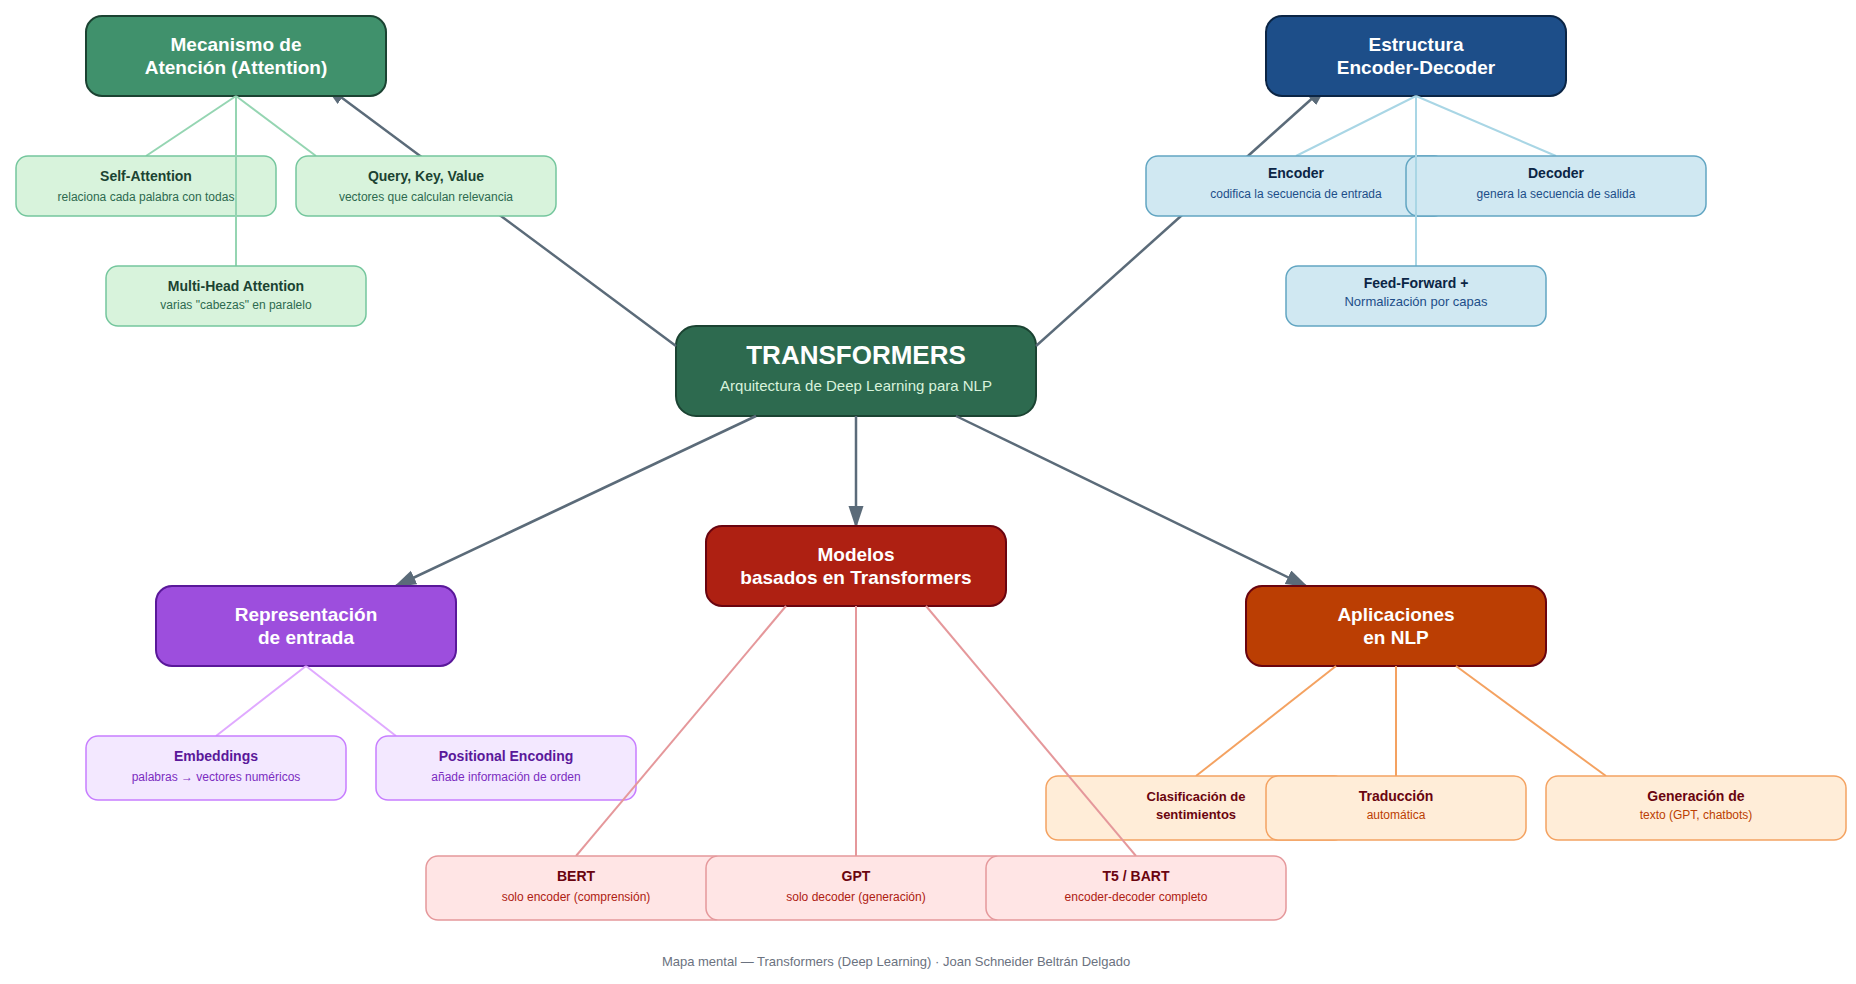
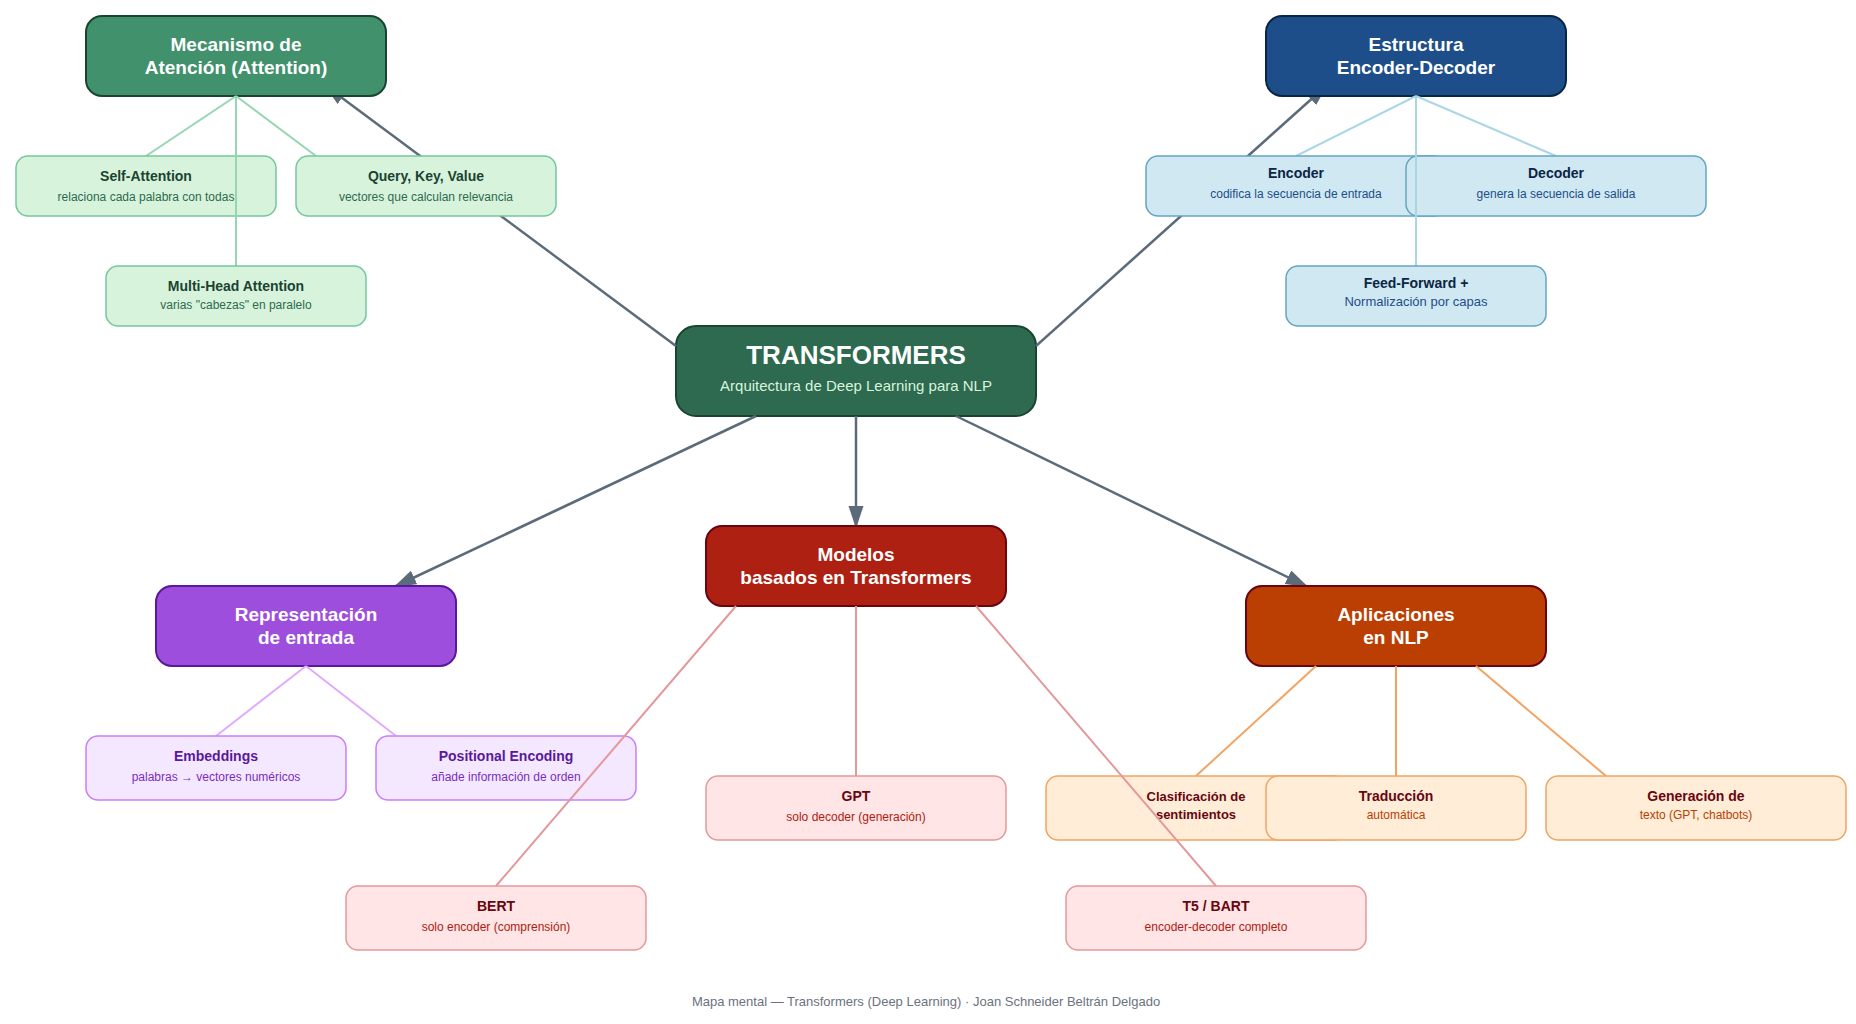
Reorganizar líneas del mapa mental para que ninguna cruce por encima de otra caja

diff --git a/.generator/generar.js b/.generator/generar.js
@@ -1,0 +1,227 @@
+const fs = require("fs");
+const {
+  Document, Packer, Paragraph, TextRun, AlignmentType,
+  Header, PageNumber, ImageRun, ExternalHyperlink, Table, TableRow, TableCell,
+  WidthType,
+} = require("docx");
+
+const IMG_DIR = "/home/alternova/Documentos/entrega-transformers-nlp";
+const REPO_URL = "https://github.com/JSBeltran93/transformers-nlp-sentimientos";
+
+function sizeOf(path) {
+  const buf = fs.readFileSync(path);
+  const width = buf.readUInt32BE(16);
+  const height = buf.readUInt32BE(20);
+  return { width, height, buf };
+}
+
+function figureParagraph(path, maxWidth, caption) {
+  const { width, height, buf } = sizeOf(path);
+  const scale = maxWidth / width;
+  const w = Math.round(width * scale);
+  const h = Math.round(height * scale);
+  return [
+    new Paragraph({
+      alignment: AlignmentType.CENTER,
+      spacing: { before: 200, after: 100 },
+      children: [new ImageRun({ data: buf, transformation: { width: w, height: h }, type: "png" })],
+    }),
+    new Paragraph({
+      alignment: AlignmentType.CENTER,
+      spacing: { after: 300 },
+      children: [new TextRun({ text: caption, italics: true, size: 20 })],
+    }),
+  ];
+}
+
+const FONT = "Times New Roman";
+const SIZE = 24;
+
+function p(text, opts = {}) {
+  return new Paragraph({
+    spacing: { line: 480, after: opts.after ?? 0 },
+    alignment: opts.align ?? AlignmentType.JUSTIFIED,
+    indent: opts.indent ? { firstLine: 720 } : undefined,
+    children: Array.isArray(text) ? text : [new TextRun({ text, font: FONT, size: SIZE, bold: opts.bold, italics: opts.italics })],
+  });
+}
+
+function heading(text) {
+  return new Paragraph({
+    spacing: { before: 300, after: 200, line: 480 },
+    children: [new TextRun({ text, font: FONT, size: SIZE, bold: true })],
+  });
+}
+
+function code(lines) {
+  return new Paragraph({
+    spacing: { after: 200 },
+    shading: { fill: "F2F2F2" },
+    children: lines.split("\n").flatMap((line, i) => [
+      ...(i > 0 ? [new TextRun({ text: "", break: 1 })] : []),
+      new TextRun({ text: line, font: "Courier New", size: 18 }),
+    ]),
+  });
+}
+
+const children = [];
+
+// Portada
+children.push(
+  new Paragraph({ spacing: { before: 2000 }, children: [] }),
+  new Paragraph({
+    alignment: AlignmentType.CENTER,
+    spacing: { line: 480, after: 100 },
+    children: [new TextRun({ text: "Informe de Trabajo: Transformers aplicados al Procesamiento de Lenguaje Natural", font: FONT, size: 28, bold: true })],
+  }),
+  new Paragraph({ spacing: { before: 1600 }, children: [] }),
+  new Paragraph({ alignment: AlignmentType.CENTER, spacing: { line: 480 }, children: [new TextRun({ text: "Joan Schneider Beltrán Delgado", font: FONT, size: SIZE })] }),
+  new Paragraph({ alignment: AlignmentType.CENTER, spacing: { line: 480 }, children: [new TextRun({ text: "CADI, Universidad de Cundinamarca, Especialización en Inteligencia Artificial", font: FONT, size: SIZE })] }),
+  new Paragraph({ alignment: AlignmentType.CENTER, spacing: { line: 480 }, children: [new TextRun({ text: "Inteligencia Artificial - Conceptos", font: FONT, size: SIZE })] }),
+  new Paragraph({ alignment: AlignmentType.CENTER, spacing: { line: 480 }, children: [new TextRun({ text: "15 de noviembre de 2026", font: FONT, size: SIZE })] }),
+  new Paragraph({ children: [], pageBreakBefore: true }),
+);
+
+children.push(
+  new Paragraph({
+    alignment: AlignmentType.CENTER,
+    spacing: { after: 300, line: 480 },
+    children: [new TextRun({ text: "Informe de Trabajo: Transformers aplicados al Procesamiento de Lenguaje Natural", font: FONT, size: SIZE, bold: true })],
+  }),
+  heading("Introducción"),
+  p("Este informe recoge una práctica con modelos Transformers aplicados al procesamiento de lenguaje natural (NLP), usando un modelo preentrenado de la librería Hugging Face transformers para clasificar el sentimiento de un grupo de oraciones. Se explican primero los fundamentos de la arquitectura Transformer y su mecanismo de atención, y luego se describe la práctica, los resultados obtenidos y lo que se puede concluir de ellos.", { indent: true, after: 200 }),
+);
+
+children.push(heading("Conceptos clave"));
+
+children.push(
+  new Paragraph({ spacing: { line: 480, after: 150 }, children: [new TextRun({ text: "Qué es un Transformer", font: FONT, size: SIZE, bold: true, italics: true })] }),
+  p('Un Transformer es una arquitectura de red neuronal pensada originalmente para traducción automática, presentada por Vaswani et al. (2017) en el artículo "Attention is all you need". A diferencia de las redes recurrentes (RNN/LSTM), que leen una secuencia palabra por palabra, un Transformer procesa toda la secuencia de una vez, apoyándose por completo en el mecanismo de atención para relacionar palabras sin importar qué tan lejos estén unas de otras en el texto.', { indent: true, after: 200 }),
+
+  new Paragraph({ spacing: { line: 480, after: 150 }, children: [new TextRun({ text: "El mecanismo de atención", font: FONT, size: SIZE, bold: true, italics: true })] }),
+  p('La pieza central de un Transformer es el mecanismo de self-attention: para cada palabra de una oración, el modelo calcula qué tan relevantes son todas las demás palabras para entenderla en ese contexto puntual. Esto se logra con tres vectores derivados de cada palabra (query, key y value); comparando la query de una palabra contra las keys de las demás, el modelo obtiene un peso que indica cuánto debe fijarse en cada una al construir su representación final. El Multi-Head Attention repite este cálculo varias veces en paralelo, con pesos distintos cada vez, lo que le permite al modelo captar a la vez varios tipos de relación, por ejemplo una sintáctica y otra semántica.', { indent: true, after: 200 }),
+
+  new Paragraph({ spacing: { line: 480, after: 150 }, children: [new TextRun({ text: "Estructura: encoder y decoder", font: FONT, size: SIZE, bold: true, italics: true })] }),
+  p("La arquitectura original del Transformer se divide en dos bloques: el encoder, que toma la secuencia de entrada y la convierte en una representación vectorial cargada de contexto, y el decoder, que usa esa representación para ir generando la secuencia de salida palabra por palabra. Cada bloque apila varias capas idénticas, y cada capa combina una etapa de atención con una red feed-forward, además de normalización y conexiones residuales que ayudan a que el entrenamiento no se desestabilice en redes tan profundas. No todos los modelos usan ambas mitades: BERT se queda solo con el encoder, pensado para entender texto; GPT usa solo el decoder, pensado para generarlo; y modelos como T5 o BART conservan la arquitectura completa.", { indent: true, after: 200 }),
+
+  new Paragraph({ spacing: { line: 480, after: 150 }, children: [new TextRun({ text: "Aplicaciones en NLP", font: FONT, size: SIZE, bold: true, italics: true })] }),
+  p("Hoy en día los Transformers sostienen casi todas las aplicaciones de NLP que se usan a diario: clasificación de texto y análisis de sentimientos, traducción automática, resumen de documentos, respuesta a preguntas, y generación de texto. Los modelos de lenguaje conversacional como ChatGPT son, en el fondo, Transformers tipo decoder llevados a una escala enorme.", { indent: true, after: 200 }),
+);
+
+children.push(heading("Descripción de la práctica"));
+
+children.push(
+  new Paragraph({ spacing: { line: 480, after: 150 }, children: [new TextRun({ text: "Modelo utilizado", font: FONT, size: SIZE, bold: true, italics: true })] }),
+  p("Para esta práctica se usó distilbert-base-uncased-finetuned-sst-2-english, una versión reducida de BERT (DistilBERT) ya afinada específicamente para clasificar sentimientos de forma binaria (positivo/negativo) sobre el dataset SST-2. Se accedió al modelo a través del pipeline de alto nivel sentiment-analysis de la librería transformers de Hugging Face, que se encarga internamente de tokenizar el texto, pasarlo por el modelo y convertir la salida en una etiqueta junto con su probabilidad.", { indent: true, after: 100 }),
+  code(`from transformers import pipeline
+
+clasificador = pipeline("sentiment-analysis",
+                         model="distilbert-base-uncased-finetuned-sst-2-english")
+
+oraciones = [
+    "I love how this model understands context so well.",
+    "This movie was a complete waste of my time.",
+    "The weather today is okay, nothing special.",
+    "Transformers have completely changed the field of NLP.",
+    "I am really disappointed with the customer service.",
+]
+
+resultados = clasificador(oraciones)
+for oracion, resultado in zip(oraciones, resultados):
+    print(f"{oracion!r} -> {resultado['label']} ({resultado['score']:.4f})")`),
+
+  new Paragraph({ spacing: { line: 480, after: 150 }, children: [new TextRun({ text: "Procedimiento", font: FONT, size: SIZE, bold: true, italics: true })] }),
+  p("Se armó un grupo breve de 5 oraciones en inglés (el idioma en el que el modelo fue afinado), con distintos matices de sentimiento: dos claramente positivas, dos claramente negativas, y una neutra a propósito, para ver cómo se comporta el modelo frente a un caso límite. El pipeline tokeniza cada oración, la pasa por las capas del Transformer, incluido el mecanismo de atención descrito antes, y produce un vector de probabilidades que termina convertido en la etiqueta final (POSITIVE o NEGATIVE) junto con su nivel de confianza.", { indent: true, after: 200 }),
+);
+
+children.push(heading("Resultados obtenidos"));
+
+children.push(p("El modelo clasificó las 5 oraciones de la siguiente manera:", { indent: true, after: 100 }));
+
+const rows = [
+  ["Oración", "Etiqueta", "Confianza"],
+  ["I love how this model understands context so well.", "POSITIVE", "0.9998"],
+  ["This movie was a complete waste of my time.", "NEGATIVE", "0.9998"],
+  ["The weather today is okay, nothing special.", "NEGATIVE", "0.9952"],
+  ["Transformers have completely changed the field of NLP.", "POSITIVE", "0.9952"],
+  ["I am really disappointed with the customer service.", "NEGATIVE", "0.9998"],
+];
+const table = new Table({
+  width: { size: 100, type: WidthType.PERCENTAGE },
+  rows: rows.map((row, idx) => new TableRow({
+    children: row.map((cell, colIdx) => new TableCell({
+      width: { size: colIdx === 0 ? 60 : 20, type: WidthType.PERCENTAGE },
+      children: [new Paragraph({ alignment: colIdx === 0 ? AlignmentType.LEFT : AlignmentType.CENTER, children: [new TextRun({ text: cell, font: FONT, size: 20, bold: idx === 0 })] })],
+    })),
+  })),
+});
+children.push(table);
+children.push(new Paragraph({ spacing: { after: 200 }, children: [] }));
+
+children.push(
+  p('Las cuatro oraciones con una carga emocional clara, dos positivas y dos negativas, quedaron bien clasificadas y con una confianza casi perfecta (99.98% y 99.52%). La oración neutra, puesta a propósito como caso límite ("The weather today is okay, nothing special"), terminó clasificada como NEGATIVE con 99.52% de confianza.', { indent: true, after: 200 }),
+);
+
+children.push(heading("Análisis de resultados"));
+
+children.push(
+  p('El modelo acertó en los cuatro casos obvios, lo cual ya se esperaba de un Transformer afinado justo para esta tarea. Lo verdaderamente interesante fue cómo manejó el caso ambiguo. El modelo se entrenó sobre SST-2, un dataset con solo dos clases posibles: positivo o negativo, sin ninguna opción de "neutral". Así que, frente a una oración genuinamente neutra, tiene que decantarse igual por uno de los dos extremos, aunque ninguno la describa bien. Aquí se inclinó por NEGATIVE, probablemente porque frases como "nothing special" suelen acompañar opiniones poco entusiastas en los datos con los que se entrenó.', { indent: true, after: 200 }),
+  p("Esto deja ver algo clave sobre los Transformers preentrenados: la calidad de sus respuestas depende tanto de la arquitectura como del conjunto de datos y las etiquetas usadas para afinarlos. El mecanismo de atención le da al modelo una lectura muy fina del contexto, por eso la confianza se mantiene alta incluso en la oración neutra, pero esa misma arquitectura no puede inventarse una categoría que nunca existió en su entrenamiento. Dicho de otra forma, el modelo no malinterpretó la oración; simplemente se le estaba pidiendo una respuesta binaria para un caso que no lo es.", { indent: true, after: 200 }),
+  p("La confianza tan alta en los cuatro casos claros tiene una explicación sencilla: como el modelo fue afinado específicamente para análisis de sentimientos en inglés, rinde mucho mejor en ese tipo de tarea que un modelo de propósito general sin ese ajuste. Esa es, justamente, la ventaja práctica del transfer learning con Transformers preentrenados.", { indent: true, after: 200 }),
+);
+
+children.push(heading("Mapa mental"));
+children.push(p("A continuación se presenta el mapa mental con los conceptos principales de los Transformers, su relación y su organización jerárquica.", { indent: true, after: 100 }));
+children.push(...figureParagraph(`${IMG_DIR}/mapa_mental.png`, 600, "Figura 1. Mapa mental — Transformers: mecanismo de atención, estructura encoder-decoder, representación de entrada, modelos conocidos y aplicaciones en NLP."));
+
+children.push(heading("Conclusiones"));
+
+children.push(
+  p("Esta práctica muestra de forma muy concreta por qué los Transformers se volvieron la base del procesamiento de lenguaje natural actual: un modelo preentrenado y afinado clasificó correctamente el sentimiento de varias oraciones con una confianza altísima, sin entrenar nada desde cero ni escribir reglas manuales de análisis de texto. Ese desempeño descansa por completo en el mecanismo de atención, que le permite al modelo relacionar cada palabra con el resto de la oración y armar así una representación rica del contexto.", { indent: true, after: 200 }),
+  p("El caso de la oración neutra deja, por su parte, una lección distinta pero igual de útil: un Transformer no entiende el lenguaje de forma general ni es infalible, sino que está atado a las categorías y los datos con los que fue afinado. Cuando la realidad no encaja del todo en esas categorías, como ocurre con un sentimiento neutro frente a un clasificador binario, el modelo igual entrega una respuesta segura, aunque esa seguridad no garantice un acierto. Vale la pena recordar esto en cualquier aplicación real: la confianza numérica de un modelo no equivale a la certeza de que su respuesta sea correcta, y los casos ambiguos son más comunes de lo que parece.", { indent: true, after: 200 }),
+);
+
+children.push(heading("Repositorio de GitHub"));
+children.push(
+  p([
+    new TextRun({ text: "El notebook completo, con la práctica ejecutada, está disponible en el siguiente repositorio: ", font: FONT, size: SIZE }),
+    new ExternalHyperlink({ link: REPO_URL, children: [new TextRun({ text: REPO_URL, font: FONT, size: SIZE, style: "Hyperlink" })] }),
+    new TextRun({ text: ".", font: FONT, size: SIZE }),
+  ], { indent: true, after: 200 }),
+);
+
+children.push(heading("Referencias"));
+children.push(
+  new Paragraph({
+    spacing: { line: 480, after: 150 },
+    indent: { hanging: 720 },
+    children: [new TextRun({ text: "Vaswani, A., Shazeer, N., Parmar, N., Uszkoreit, J., Jones, L., Gomez, A. N., Kaiser, Ł., & Polosukhin, I. (2017). Attention is all you need. Advances in Neural Information Processing Systems, 30.", font: FONT, size: SIZE })],
+  }),
+  new Paragraph({
+    spacing: { line: 480, after: 150 },
+    indent: { hanging: 720 },
+    children: [new TextRun({ text: "Wolf, T., Debut, L., Sanh, V., Chaumond, J., Delangue, C., Moi, A., Cistac, P., Rault, T., Louf, R., Funtowicz, M., Davison, J., Shleifer, S., von Platen, P., Ma, C., Jernite, Y., Plu, J., Xu, C., Le Scao, T., Gugger, S., … Rush, A. M. (2020). Transformers: State-of-the-art natural language processing. Proceedings of the 2020 Conference on Empirical Methods in Natural Language Processing: System Demonstrations, 38–45. https://doi.org/10.18653/v1/2020.emnlp-demos.6", font: FONT, size: SIZE })],
+  }),
+);
+
+const doc = new Document({
+  sections: [
+    {
+      properties: {},
+      headers: {
+        default: new Header({
+          children: [new Paragraph({
+            alignment: AlignmentType.RIGHT,
+            children: [new TextRun({ children: [PageNumber.CURRENT], font: FONT, size: 20 })],
+          })],
+        }),
+      },
+      children,
+    },
+  ],
+});
+
+Packer.toBuffer(doc).then((buf) => {
+  fs.writeFileSync("Informe_Transformers.docx", buf);
+  console.log("Generado.");
+});
